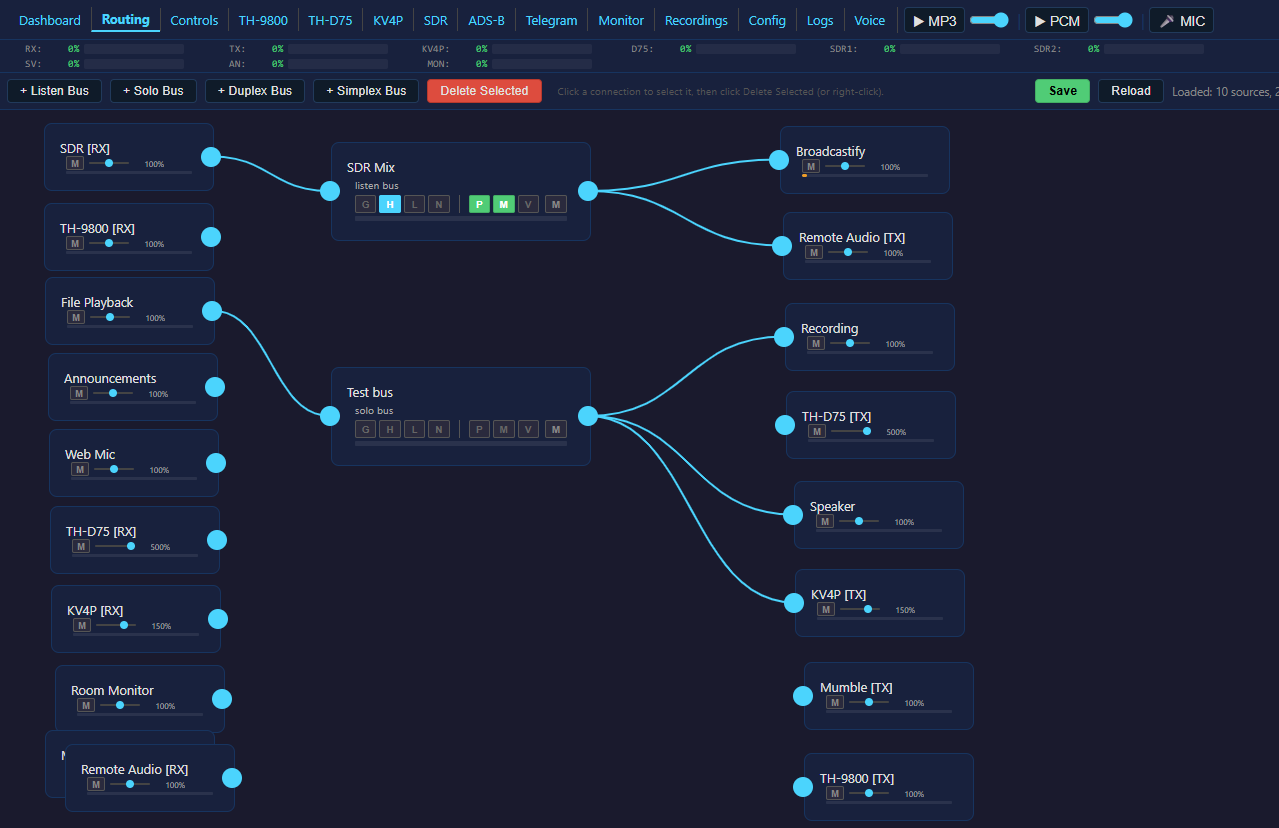
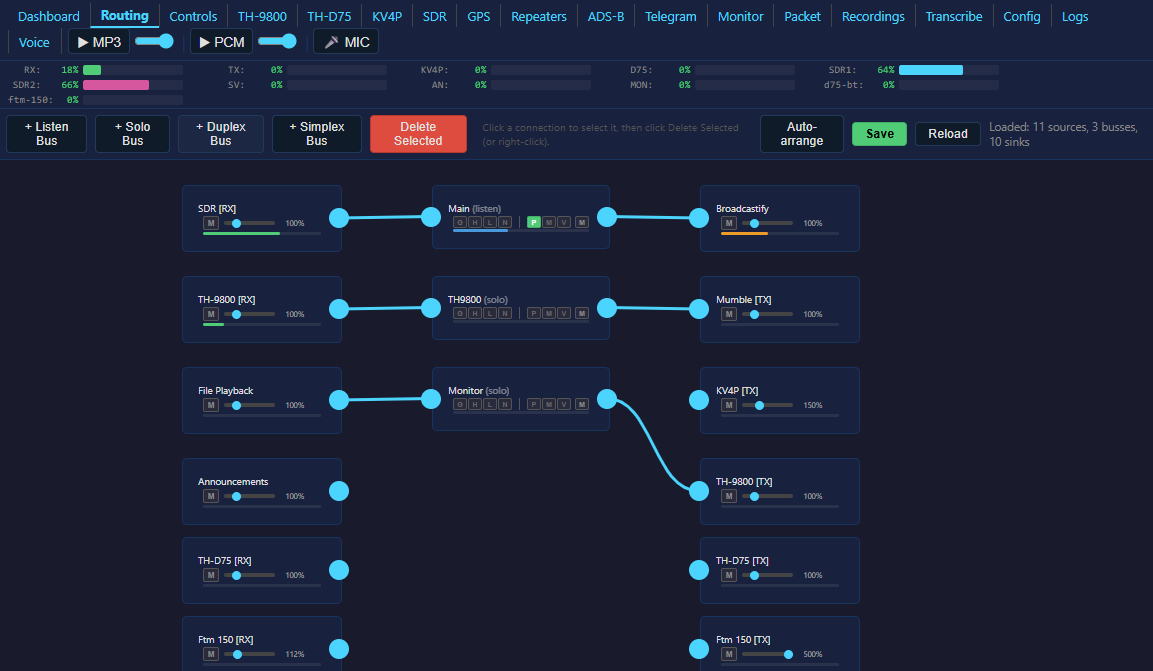
BBS terminal, Winlink gateway map, screenshots, README overhaul
- BBS terminal: real AGW connected-mode sessions via Direwolf.
  Connect to any packet station, interactive text terminal with
  live receive and send. Tested with KF6BRC-10 Winlink gateway.

- Winlink gateway map: nearby RMS gateways plotted on APRS map
  from Pat's cached rmslist.json (real lat/lon from Winlink CMS).
  Popup shows freq, baud, distance, range, antenna, last active,
  operating hours. Sorted by distance, cached 1 hour.

- Pat proxy route fix: /pat prefix was hijacking all /packet/* URLs.
  Changed to exact match /pat or /pat/* prefix.

- README overhaul: updated description, added packet radio screenshots
  (status, APRS map, Winlink, BBS terminal), updated routing screenshot,
  added GPS and repeater detail screenshots.

- Font sizes increased across all packet page tabs.

diff --git a/web_pages/packet.html b/web_pages/packet.html
@@ -139,7 +139,8 @@
     <button class="pkt-btn" onclick="wlCompose()">Compose</button>
     <button class="pkt-btn" onclick="wlConnect()" id="wl-connect-btn">Connect &amp; Sync</button>
     <select id="wl-gateway" style="background:var(--t-input-bg);color:var(--t-fg);border:1px solid var(--t-border);padding:4px 8px;border-radius:3px;">
-      <option value="KM6RTE-12">KM6RTE-12 (144.970)</option>
+      <option value="KM6RTE-12">KM6RTE-12 (144.970) Loma Ridge 19km</option>
+      <option value="KF6BRC-10">KF6BRC-10 (145.090) Mission Viejo 0km</option>
     </select>
     <span id="wl-status" style="margin-left:auto;color:#888;font-size:0.95em;">idle</span>
   </div>
@@ -207,7 +208,10 @@ function switchTab(name) {
   document.querySelectorAll('.pkt-panel').forEach(function(p) { p.classList.remove('active'); });
   document.getElementById('tab-' + name).classList.add('active');
   document.querySelector('.pkt-tab[onclick*="' + name + '"]').classList.add('active');
-  if (name === 'aprs' && !window._aprsMapInit) initAprsMap();
+  if (name === 'aprs') {
+    if (!window._aprsMapInit) initAprsMap();
+    else if (_aprsMap) setTimeout(function() { _aprsMap.invalidateSize(); }, 100);
+  }
 }
 
 // ── API helpers ──
@@ -219,7 +223,10 @@ function pktPost(endpoint, data) {
   }).then(function(r) { return r.json(); }).catch(function() { return {}; });
 }
 function pktGet(endpoint) {
-  return fetch('/packet/' + endpoint).then(function(r) { return r.json(); }).catch(function() { return {}; });
+  return fetch('/packet/' + endpoint).then(function(r) {
+    if (!r.ok) console.error('[pktGet] HTTP ' + r.status + ' for /packet/' + endpoint);
+    return r.json();
+  }).catch(function(e) { console.error('[pktGet] fetch error for /packet/' + endpoint + ':', e); return {}; });
 }
 
 // ── Mode control ──
@@ -406,6 +413,7 @@ var _aprsPathLines = [];  // active relay path polylines
 var _aprsStationData = {};  // cached station data for path drawing
 window._aprsMapInit = false;
 
+var _wlGwMarkers = [];
 function initAprsMap() {
   if (window._aprsMapInit) return;
   window._aprsMapInit = true;
@@ -415,7 +423,40 @@ function initAprsMap() {
     attribution: '&copy; OpenStreetMap'
   }).addTo(_aprsMap);
   _aprsMap.on('click', clearPathLines);
-  setTimeout(function() { _aprsMap.invalidateSize(); }, 200);
+  setTimeout(function() {
+    _aprsMap.invalidateSize();
+    loadWinlinkGateways();
+  }, 500);
+}
+function loadWinlinkGateways() {
+  console.log('[WL-GW] Loading gateways, map=' + !!_aprsMap);
+  pktGet('winlink/gateways').then(function(d) {
+    console.log('[WL-GW] Got response:', JSON.stringify(d).substring(0, 200));
+    if (!d.ok || !d.gateways || !_aprsMap) return;
+    // Clear old markers
+    _wlGwMarkers.forEach(function(m) { _aprsMap.removeLayer(m); });
+    _wlGwMarkers = [];
+    d.gateways.forEach(function(gw) {
+      var icon = L.divIcon({
+        className: '',
+        html: '<div style="background:#2980b9;color:#fff;font-size:10px;font-weight:bold;padding:3px 6px;border-radius:10px;border:2px solid #1a5276;white-space:nowrap;text-shadow:0 1px 1px rgba(0,0,0,0.5);">' + gw.callsign + '</div>',
+        iconAnchor: [12, 12]
+      });
+      var active = gw.hours_since >= 0 ? (gw.hours_since < 1 ? '<span style="color:#2ecc71;">Active now</span>' : gw.hours_since + 'h ago') : '?';
+      var popup = '<div style="font-size:13px;line-height:1.6;">'
+        + '<b style="color:#2980b9;">' + gw.callsign + '</b><br>'
+        + '<b>Freq:</b> ' + gw.freq + ' MHz &nbsp; <b>Baud:</b> ' + gw.modem + '<br>'
+        + '<b>Distance:</b> ' + gw.dist_km + ' km &nbsp; <b>Range:</b> ' + (gw.range_mi || '?') + ' mi<br>'
+        + '<b>Grid:</b> ' + gw.grid + ' &nbsp; <b>Antenna:</b> ' + (gw.antenna || '?') + '<br>'
+        + '<b>Last active:</b> ' + active + '<br>'
+        + '<b>Hours:</b> ' + (gw.hours || '24/7')
+        + '</div>';
+      var m = L.marker([gw.lat, gw.lon], {icon: icon})
+        .bindPopup(popup)
+        .addTo(_aprsMap);
+      _wlGwMarkers.push(m);
+    });
+  });
 }
 
 function clearPathLines() {

diff --git a/packet_radio.py b/packet_radio.py
@@ -71,6 +71,8 @@ class PacketRadioPlugin:
         self._bbs_buffer = collections.deque(maxlen=2000)
         self._bbs_connected = False
         self._bbs_callsign = ''
+        self._bbs_agw_sock = None
+        self._bbs_reader_thread = None
         self._packet_count = 0
         self._start_time = None
 
@@ -754,27 +756,135 @@ class PacketRadioPlugin:
         except Exception:
             pass
 
+    @staticmethod
+    def _agw_frame(port, kind, call_from, call_to, data=b''):
+        """Build a 36-byte AGW protocol frame."""
+        import struct
+        hdr = bytearray(36)
+        hdr[0] = port & 0xFF
+        hdr[4] = ord(kind[0])
+        cf = call_from.encode()[:10]
+        ct = call_to.encode()[:10]
+        hdr[8:8+len(cf)] = cf
+        hdr[18:18+len(ct)] = ct
+        struct.pack_into('<I', hdr, 28, len(data))
+        return bytes(hdr) + data
+
     def _bbs_connect(self, callsign):
+        """Connect to a remote station via AGW connected mode."""
+        import struct
         if not callsign:
             return {"ok": False, "error": "callsign required"}
-        if not self._kiss_connected:
-            return {"ok": False, "error": "KISS not connected"}
-        self._bbs_callsign = callsign.upper()
-        self._bbs_connected = True
+        if self._bbs_connected:
+            return {"ok": False, "error": f"already connected to {self._bbs_callsign}"}
+        if not self._remote_tnc:
+            return {"ok": False, "error": "no remote TNC configured"}
+
+        callsign = callsign.upper().strip()
+        mycall = f"{self._callsign}-{self._ssid}"
         self._bbs_buffer.clear()
-        self._bbs_buffer.append(f"*** Connecting to {self._bbs_callsign}...")
-        return {"ok": True, "callsign": self._bbs_callsign}
+        self._bbs_buffer.append(f"*** Connecting to {callsign} via AGW...")
+        self._bbs_callsign = callsign
+
+        def _session():
+            import socket
+            try:
+                s = socket.socket()
+                s.settimeout(60)
+                s.connect((self._remote_tnc, 8010))
+                self._bbs_agw_sock = s
+
+                # Register callsign
+                s.sendall(self._agw_frame(0, 'X', mycall, ''))
+                time.sleep(0.3)
+
+                # Send connect
+                s.sendall(self._agw_frame(0, 'C', mycall, callsign))
+
+                # Reader loop
+                buf = b''
+                while self._bbs_agw_sock:
+                    try:
+                        data = s.recv(4096)
+                        if not data:
+                            break
+                        buf += data
+                        while len(buf) >= 36:
+                            data_len = struct.unpack('<I', buf[28:32])[0]
+                            if len(buf) < 36 + data_len:
+                                break
+                            kind = chr(buf[4])
+                            cf = buf[8:18].decode('ascii', errors='replace').strip('\x00')
+                            ct = buf[18:28].decode('ascii', errors='replace').strip('\x00')
+                            payload = buf[36:36+data_len]
+                            buf = buf[36+data_len:]
+                            text = payload.decode('ascii', errors='replace')
+
+                            if kind == 'C' and text:
+                                # Connection status
+                                self._bbs_buffer.append(f"*** {text.strip()}")
+                                if 'CONNECTED' in text.upper() and 'RETRYOUT' not in text.upper():
+                                    self._bbs_connected = True
+                            elif kind == 'D' and text:
+                                # Data from remote
+                                for line in text.splitlines():
+                                    self._bbs_buffer.append(line)
+                            elif kind == 'd':
+                                # Disconnect
+                                self._bbs_buffer.append(f"*** {text.strip()}" if text.strip() else "*** Disconnected")
+                                self._bbs_connected = False
+                                break
+                    except socket.timeout:
+                        continue
+                    except Exception as e:
+                        self._bbs_buffer.append(f"*** Error: {e}")
+                        break
+
+            except Exception as e:
+                self._bbs_buffer.append(f"*** Connection failed: {e}")
+            finally:
+                self._bbs_connected = False
+                self._bbs_agw_sock = None
+                self._bbs_buffer.append("*** Session ended")
+
+        self._bbs_reader_thread = threading.Thread(target=_session, daemon=True, name="BBS-session")
+        self._bbs_reader_thread.start()
+        return {"ok": True, "callsign": callsign}
 
     def _bbs_disconnect(self):
+        """Disconnect the BBS AGW session."""
+        if self._bbs_agw_sock and self._bbs_callsign:
+            mycall = f"{self._callsign}-{self._ssid}"
+            try:
+                self._bbs_agw_sock.sendall(
+                    self._agw_frame(0, 'd', mycall, self._bbs_callsign))
+            except Exception:
+                pass
+        # Close socket to break reader loop
+        s = self._bbs_agw_sock
+        self._bbs_agw_sock = None
+        if s:
+            try:
+                s.close()
+            except Exception:
+                pass
         self._bbs_connected = False
         self._bbs_buffer.append("*** Disconnected")
         self._bbs_callsign = ''
         return {"ok": True}
 
     def _bbs_send(self, text):
-        if not self._bbs_connected:
+        """Send a line of text to the connected BBS via AGW data frame."""
+        if not self._bbs_connected or not self._bbs_agw_sock:
             return {"ok": False, "error": "not connected"}
         if not text:
             return {"ok": False, "error": "text required"}
-        self._bbs_buffer.append(f"> {text}")
-        return {"ok": True}
+        mycall = f"{self._callsign}-{self._ssid}"
+        try:
+            payload = (text + '\r').encode('ascii', errors='replace')
+            self._bbs_agw_sock.sendall(
+                self._agw_frame(0, 'D', mycall, self._bbs_callsign, payload))
+            self._bbs_buffer.append(f"> {text}")
+            return {"ok": True}
+        except Exception as e:
+            return {"ok": False, "error": str(e)}

diff --git a/web_routes_get.py b/web_routes_get.py
@@ -1040,6 +1040,78 @@ def _pkt_json(handler, data):
     handler.end_headers()
     handler.wfile.write(body)
 
+_winlink_gw_cache = {'data': None, 'time': 0}
+
+def _winlink_gateways():
+    """Return nearby Winlink RMS packet gateways from Pat's cached rmslist.json.
+
+    Pat downloads the full gateway list from api.winlink.org and caches it
+    locally.  We read the JSON directly — no CLI parsing, no API key needed.
+    """
+    import json as _json, time as _time, math as _math
+    now = _time.time()
+    if _winlink_gw_cache['data'] and now - _winlink_gw_cache['time'] < 3600:
+        return _winlink_gw_cache['data']
+
+    rmslist = os.path.expanduser('~/.local/share/pat/rmslist.json')
+    if not os.path.exists(rmslist):
+        return {"ok": False, "error": "rmslist.json not found — run pat rmslist first"}
+
+    try:
+        with open(rmslist) as f:
+            data = _json.load(f)
+    except Exception as e:
+        return {"ok": False, "error": str(e)}
+
+    # Our position (from GPS config or default)
+    my_lat, my_lon = 33.75, -117.87  # DM13do default
+    max_dist_km = 100
+
+    def _haversine(lat1, lon1, lat2, lon2):
+        R = 6371
+        dlat = _math.radians(lat2 - lat1)
+        dlon = _math.radians(lon2 - lon1)
+        a = _math.sin(dlat/2)**2 + _math.cos(_math.radians(lat1)) * _math.cos(_math.radians(lat2)) * _math.sin(dlon/2)**2
+        return R * 2 * _math.atan2(_math.sqrt(a), _math.sqrt(1-a))
+
+    gateways = []
+    for gw in data.get('Gateways', []):
+        lat = gw.get('Latitude', 0)
+        lon = gw.get('Longitude', 0)
+        if not lat or not lon:
+            continue
+        dist = _haversine(my_lat, my_lon, lat, lon)
+        if dist > max_dist_km:
+            continue
+        # Each gateway can have multiple channels — extract packet ones
+        for ch in gw.get('GatewayChannels', []):
+            modes = str(ch.get('SupportedModes', ''))
+            if 'Packet' not in modes:
+                continue
+            freq_hz = ch.get('Frequency', 0)
+            freq_mhz = f'{freq_hz / 1e6:.3f}' if freq_hz else '?'
+            gateways.append({
+                'callsign': gw.get('Callsign', '?'),
+                'grid': ch.get('Gridsquare', ''),
+                'lat': round(lat, 5),
+                'lon': round(lon, 5),
+                'dist_km': round(dist, 1),
+                'freq': freq_mhz,
+                'modem': int(ch.get('Baud', 1200)),
+                'last_active': gw.get('LastStatus', ''),
+                'hours_since': gw.get('HoursSinceStatus', -1),
+                'range_mi': ch.get('RadioRange', ''),
+                'antenna': ch.get('Antenna', ''),
+                'hours': ch.get('OperatingHours', ''),
+            })
+
+    gateways.sort(key=lambda g: g['dist_km'])
+    result = {"ok": True, "gateways": gateways}
+    _winlink_gw_cache['data'] = result
+    _winlink_gw_cache['time'] = now
+    return result
+
+
 def handle_winlink_api(handler, parent):
     """GET /packet/winlink/* — Winlink mailbox API."""
     import json as _json, email, glob as _glob
@@ -1110,6 +1182,9 @@ def handle_winlink_api(handler, parent):
     elif path == '/packet/winlink/log':
         from web_routes_post import _winlink_log
         _pkt_json(handler, {"ok": True, "log": _winlink_log})
+
+    elif path == '/packet/winlink/gateways':
+        _pkt_json(handler, _winlink_gateways())
 
     else:
         _pkt_json(handler, {"ok": False, "error": "unknown endpoint"})

diff --git a/web_server.py b/web_server.py
@@ -767,7 +767,7 @@ class WebConfigServer:
                     _rg.handle_recordingsdownload(self, parent)
                 elif self.path == '/adsb' or self.path.startswith('/adsb/'):
                     _rg.handle_adsb_proxy(self, parent)
-                elif self.path.startswith('/pat') or self.path.startswith('/pat/'):
+                elif self.path == '/pat' or self.path.startswith('/pat/'):
                     _rg.handle_pat_proxy(self, parent)
                 elif self.path == '/config':
                     _rg.handle_config(self, parent)
@@ -853,7 +853,7 @@ class WebConfigServer:
                     _rp.handle_voice_send(self, parent)
                 elif self.path == '/voice/session':
                     _rp.handle_voice_session(self, parent)
-                elif self.path.startswith('/pat') or self.path.startswith('/pat/'):
+                elif self.path == '/pat' or self.path.startswith('/pat/'):
                     _rg.handle_pat_proxy(self, parent)
                 elif self.path.startswith('/packet/'):
                     _rp.handle_packet_cmd(self, parent)

diff --git a/README.md b/README.md
@@ -1,6 +1,10 @@
 # Radio Gateway
 
-A Linux gateway that bridges two-way radios to digital endpoints: Mumble VoIP, Broadcastify streaming, Telegram, AI automation, and the web. Bus-based audio routing with a visual drag-and-drop editor, plugin-based radio support, and 55+ MCP tools for AI control -- all from a single Python process.
+A full-stack Linux radio gateway that bridges analog and digital two-way radios to the internet: Mumble VoIP, Broadcastify streaming, Winlink email over packet radio, APRS tracking, Telegram bot control, AI-powered announcements, and a 17-page web UI. Bus-based audio routing with a visual drag-and-drop editor, plugin-based radio support, per-stream diagnostic tracing, and 55+ MCP tools for AI control -- all from a single Python process.
+
+**Radios:** TH-9800 (AIOC), TH-D75 (Bluetooth), KV4P (USB serial), FTM-150 (remote endpoint), RSPduo dual SDR receiver.
+**Packet:** Winlink email via Direwolf TNC + Pat client. APRS decode with station mapping. BBS terminal. Gateway proximity map from Winlink CMS directory.
+**Audio:** Sub-millisecond jitter bus mixer with per-stream trace diagnostics. Fire-and-forget PTT. Direct ALSA capture bypassing PipeWire.
 
 ## v2.0 Highlights
 
@@ -38,9 +42,13 @@ v2.0 is a full architectural rewrite of the audio engine:
 |:-:|:-:|:-:|
 | ![GPS](docs/screenshots/gps.png) | ![Repeaters](docs/screenshots/repeaters.png) | ![Transcription](docs/screenshots/transcribe.png) |
 
-| Config | Logs | Voice |
+| Packet Status | Packet APRS Map | Packet Winlink |
 |:-:|:-:|:-:|
-| ![Config](docs/screenshots/config.png) | ![Logs](docs/screenshots/logs.png) | ![Voice](docs/screenshots/voice.png) |
+| ![Packet Status](docs/screenshots/packet-status.png) | ![APRS Map](docs/screenshots/packet-aprs.png) | ![Winlink](docs/screenshots/packet-winlink.png) |
+
+| Packet BBS | Config | Logs |
+|:-:|:-:|:-:|
+| ![BBS Terminal](docs/screenshots/packet-bbs.png) | ![Config](docs/screenshots/config.png) | ![Logs](docs/screenshots/logs.png) |
 
 ## Quick Start
 
@@ -90,7 +98,7 @@ The installer handles system packages (Python, PortAudio, FFmpeg, HIDAPI, scipy)
 
 ## Web Interface
 
-Built-in HTTP server (no Flask). Shell frame with persistent audio level bars visible on every page. Compact nav bar with inline MP3/PCM/MIC controls. 14 pages served from static HTML files in `web_pages/`.
+Built-in HTTP server (no Flask). Shell frame with persistent audio level bars visible on every page. Compact nav bar with inline MP3/PCM/MIC controls. 17 pages served from static HTML files in `web_pages/`.
 
 ```ini
 [web]
